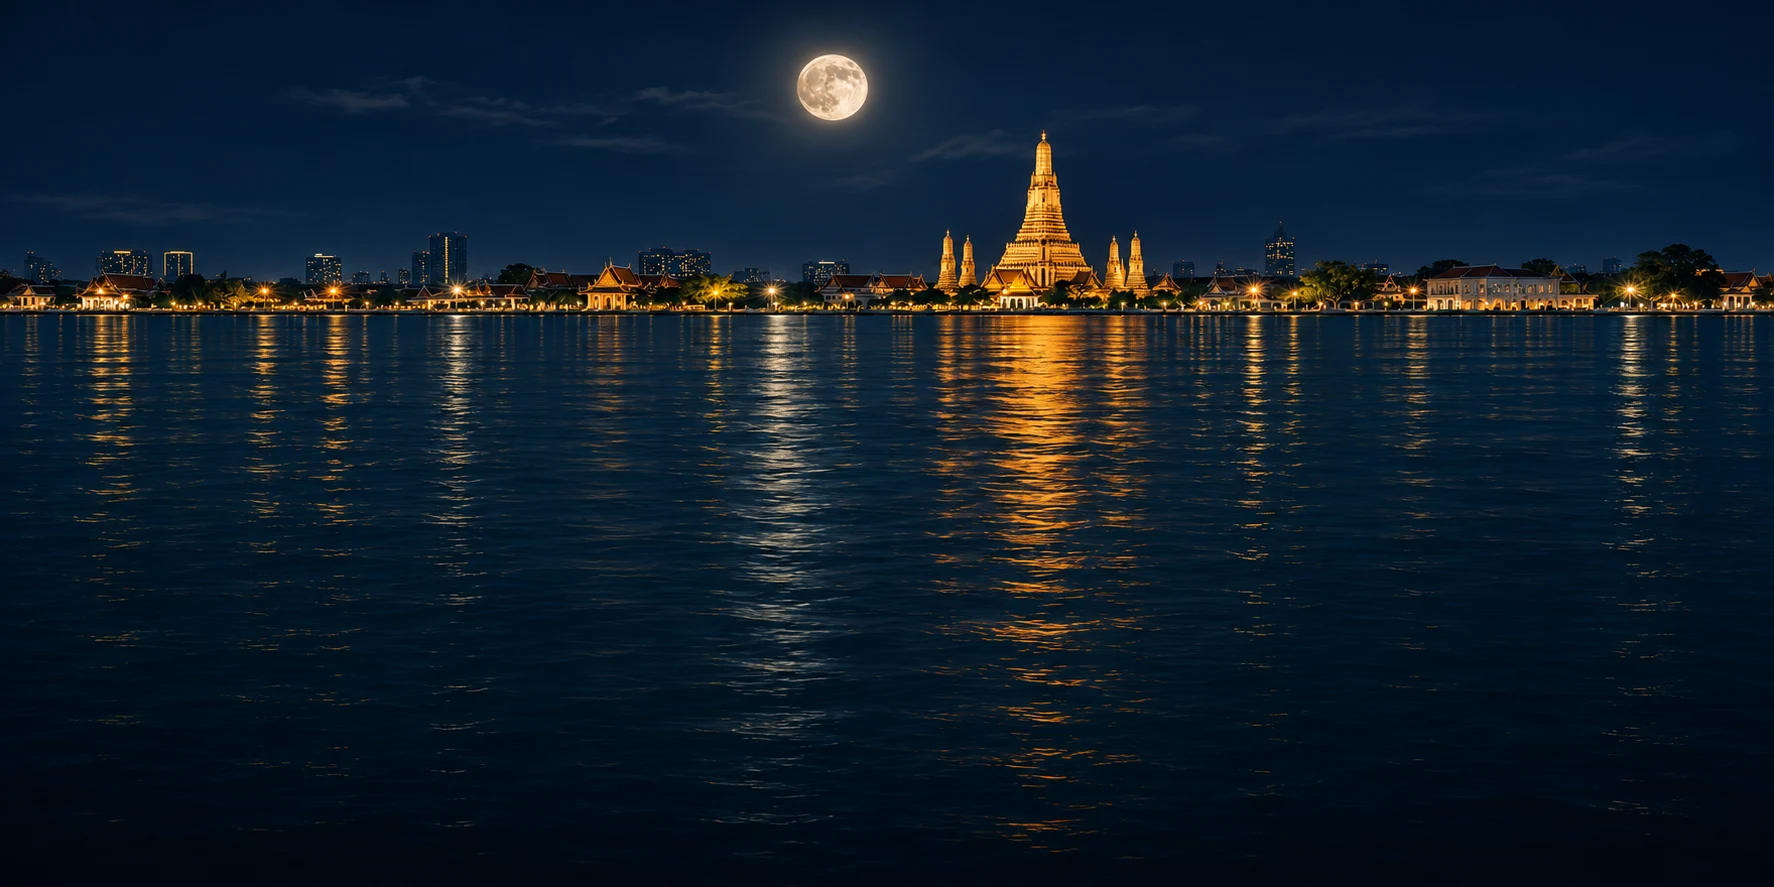
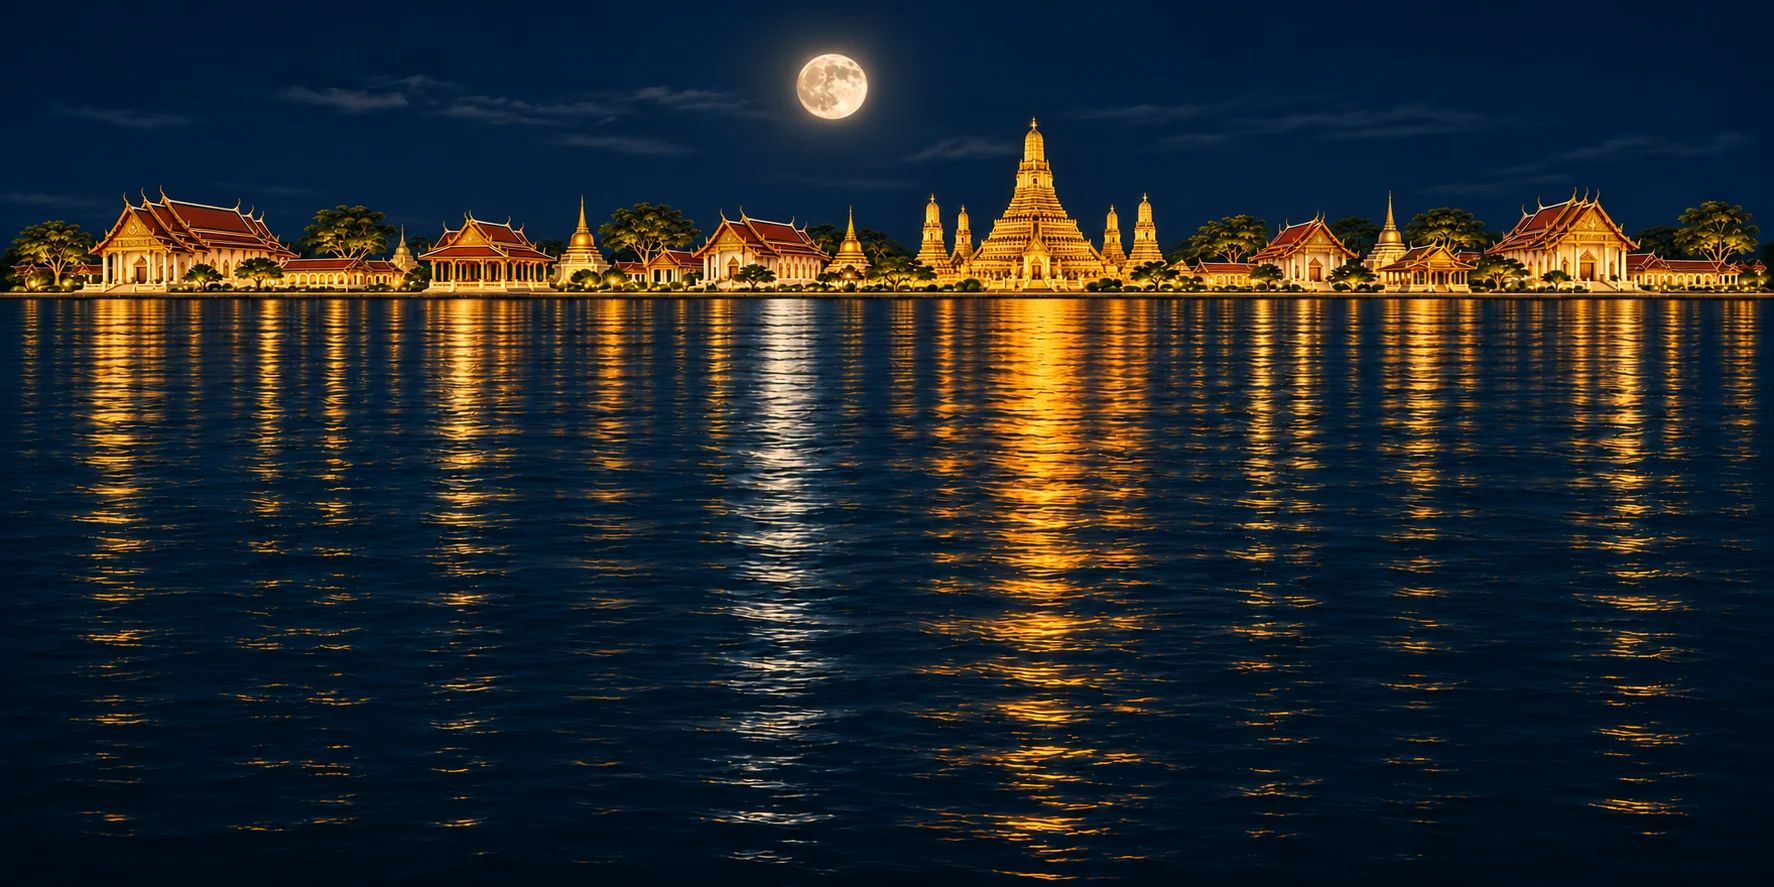
Raise temple panorama and fill the riverside temple complex

diff --git a/src/render/night-sky.ts b/src/render/night-sky.ts
@@ -61,9 +61,12 @@ export class NightSky {
   }
   resize(width: number, height: number, pixelRatio: number) {
     const scale = Math.max(width / 1774, height / 887);
+    // Raise the distant shore above the foreground bank without stretching the moon.
+    const lift = height * .045;
+    this.host.style.backgroundPosition = `55% ${-lift}px`;
     this.material.uniforms.aspect.value = width / height;
     this.material.uniforms.pixelRatio.value = pixelRatio;
-    this.material.uniforms.moon.value.set((.47 * 1774 * scale - (1774 * scale - width) * .55) / width, .1 * 887 * scale / height);
+    this.material.uniforms.moon.value.set((.47 * 1774 * scale - (1774 * scale - width) * .55) / width, (.1 * 887 * scale - lift) / height);
     this.stars.geometry.setDrawRange(0, width < 760 ? 60 : 104);
   }
   update(time: number) { this.material.uniforms.time.value = time; }
@@ -71,6 +74,7 @@ export class NightSky {
     this.image.onload = this.image.onerror = null;
     this.stars.geometry.dispose(); this.material.dispose();
     this.host.style.backgroundImage = "";
+    this.host.style.backgroundPosition = "";
     delete this.host.dataset.backgroundReady;
   }
 }

diff --git a/src/render/water.ts b/src/render/water.ts
@@ -21,7 +21,7 @@ export function createWater() {
         vec2 screen=gl_FragCoord.xy/vec2(viewportWidth,viewportHeight);
         float aspect=viewportWidth/viewportHeight;
         vec2 cover=vec2(min(1.,aspect/2.),min(1.,2./aspect));
-        vec2 uv=vec2(screen.x*cover.x+(1.-cover.x)*.55,1.-(1.-screen.y)*cover.y);
+        vec2 uv=vec2(screen.x*cover.x+(1.-cover.x)*.55,1.-(1.-screen.y+.045)*cover.y);
         float ripple=sin(p.x*3.2+p.y*10.-time*.85)+sin(p.x*8.-p.y*19.+time*.65)*.35;
         uv.x+=ripple*.0018;
         uv.y+=sin(p.y*22.+p.x*2.+time*.7)*.0009;

diff --git a/README.md b/README.md
@@ -166,10 +166,12 @@ If both clients only see themselves, read the new connection message first: perm
 
 ## Moonlit photographic river
 
-The river uses an original AI-generated night river plate inspired by the supplied Wat Arun reference, with a full moon, warm waterfront reflections and no embedded text. `src/assets/scenery/river-night.webp` is a 167 kB WebP; the foreground water shader samples the same plate with subtle ripples and a soft horizon blend. This is a photographic background with interactive 3D foreground models, rather than a fully reconstructed photographic 3D city.
+The river uses an original AI-generated night river plate inspired by the supplied Wat Arun reference, with a full moon, warm waterfront reflections and no embedded text. `src/assets/scenery/river-night.webp` is a 260 kB WebP; the foreground water shader samples the same plate with subtle ripples and a soft horizon blend. This is a photographic background with interactive 3D foreground models, rather than a fully reconstructed photographic 3D city.
 
 A single star draw uses independent seeded phases and speeds; mobile draws 60 stars and desktop 104. Moon exclusion keeps stars away from its bright disc. Stars, ripples and the existing rising lanterns use the river animation clock, which freezes for reduced motion and pauses in hidden tabs/other scenes. The moon and waterfront remain visible when animation is disabled.
 
 All twelve river craft gain smoother leaf/petal curves, finer round forms and procedural leaf veins, petal silk, coconut fibres, bread pores and wax surfaces. The jetty gains more planks, nail heads and supporting beams; pavilions gain finer roof ribs, lanterns gain paper grain and seams, and shared avatars gain smoother silhouettes, clothing fastenings and shoe layers. Static craft geometry is cached per design with reference-counted disposal; the pier and lanterns retain batching/instancing. Existing design IDs, saves, profiles, Supabase tables and Presence are unchanged; this visual update requires no SQL migration.
 
 Run `npm run test:night` (optionally `BROWSER_EXECUTABLE=/usr/bin/chromium`) for desktop/mobile screenshots in `/tmp/navait-night-qa`, loaded scenery, independent star parameters, frozen clock input, UVs on all twelve craft, shared geometry lifetime, render-call budget and browser errors. Existing browser suites cover launching, fair/temple transitions, graphics-context recovery and music. Software-rendered desktop checks do not establish physical-phone frame rates or live Supabase connectivity.
+
+The temple panorama now includes an illuminated ubosot, wihan halls, salas, smaller chedis and cloisters across the shore. The background is raised by 4.5% of the river viewport to reveal the main prang base above the foreground bank; water sampling and the moon exclusion follow the same offset without stretching the image.
